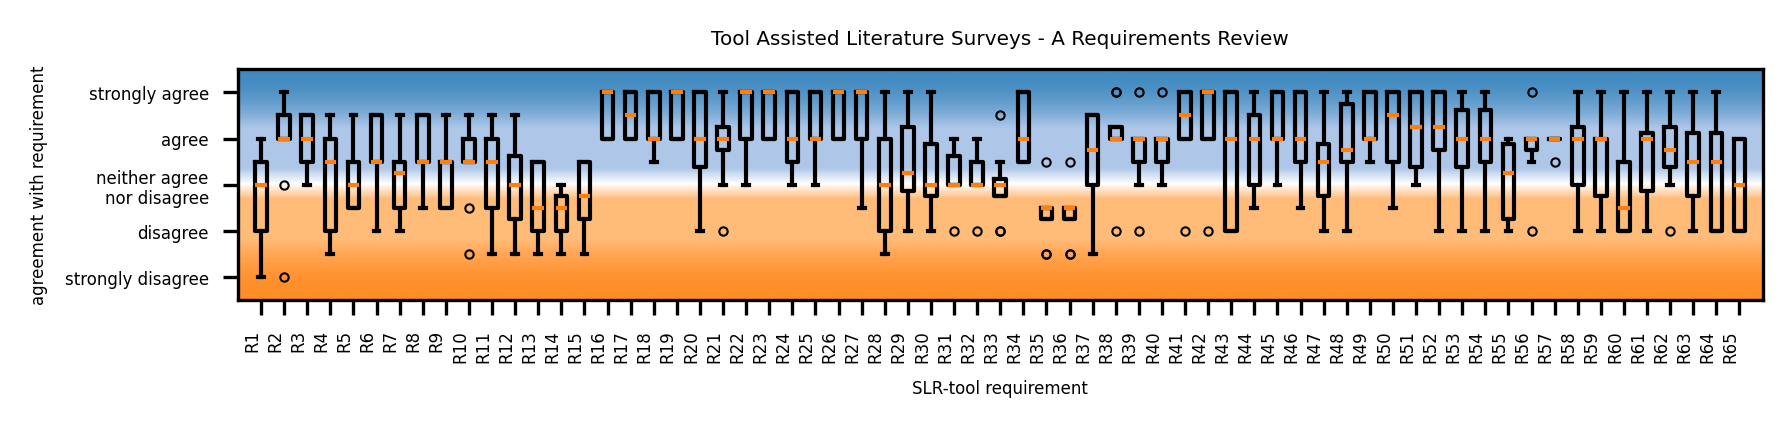
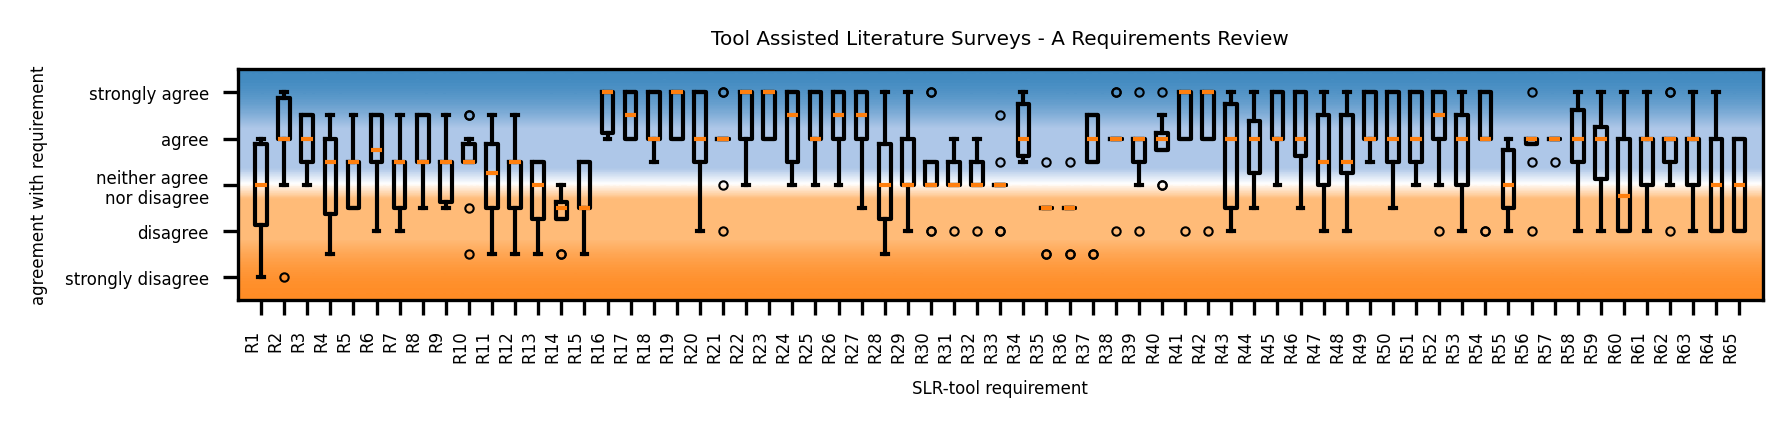
+1 reply

diff --git a/scripts/SWARM-SLR/data/analysis555283.md b/scripts/SWARM-SLR/data/analysis555283.md
@@ -153,3 +153,20 @@ Group time: Reporting: 17.22
 Group time: Demographic data: 16.77
 Group time: Conclusion: 3.94
 
+### Response ID: 33
+#### Scores:
+['A3', 'A1', 'A2', 'A2', 'A2', 'A2', 'A4', 'A2', 'A5', 'A4', 'A6', 'A4', 'A4', 'A6', 'A6', 'A1', 'A1', 'A1', 'A1', 'A1', 'A3', 'A1', 'A1', 'A1', 'A3', 'A5', 'A5', 'A5', 'A5', 'A5', 'A5', 'A5', 'A5', 'A3', 'A6', 'A6', 'A3', 'A3', '', 'A2', 'A1', 'A1', 'A3', 'A3', 'A1', 'A1', 'A1', 'A5', 'A3', 'A3', 'A3', 'A1', 'A5', 'A1', 'A5', 'A3', 'A3', 'A1', 'A1', 'A3', 'A3', 'A3', 'A3', 'A5', 'A5']
+#### Time:
+Total time: 490.03
+Groups:
+Group time: Planning a review: 26.62
+Group time: Defining a scope: 79.48
+Group time: Search: 31.14
+Group time: Select: 161.16
+Group time: Evaluate: 49.15
+Group time: Analysis: 17.77
+Group time: Synthesis: 62.95
+Group time: Reporting: 47.05
+Group time: Demographic data: 11.24
+Group time: Conclusion: 3.47
+
